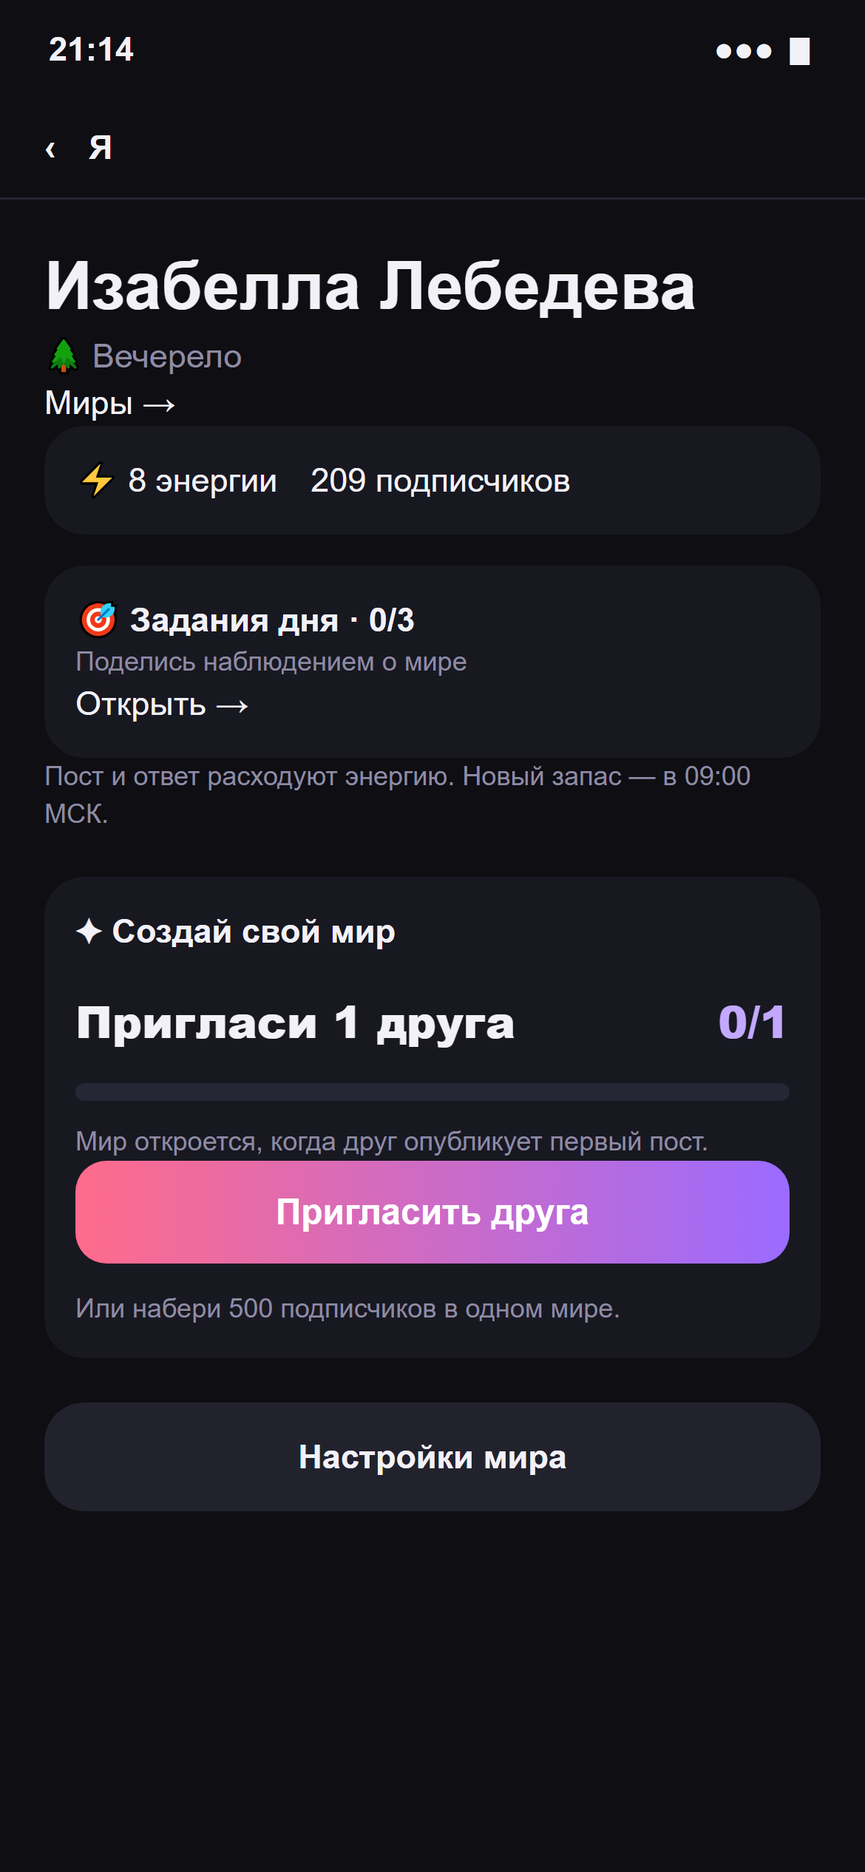
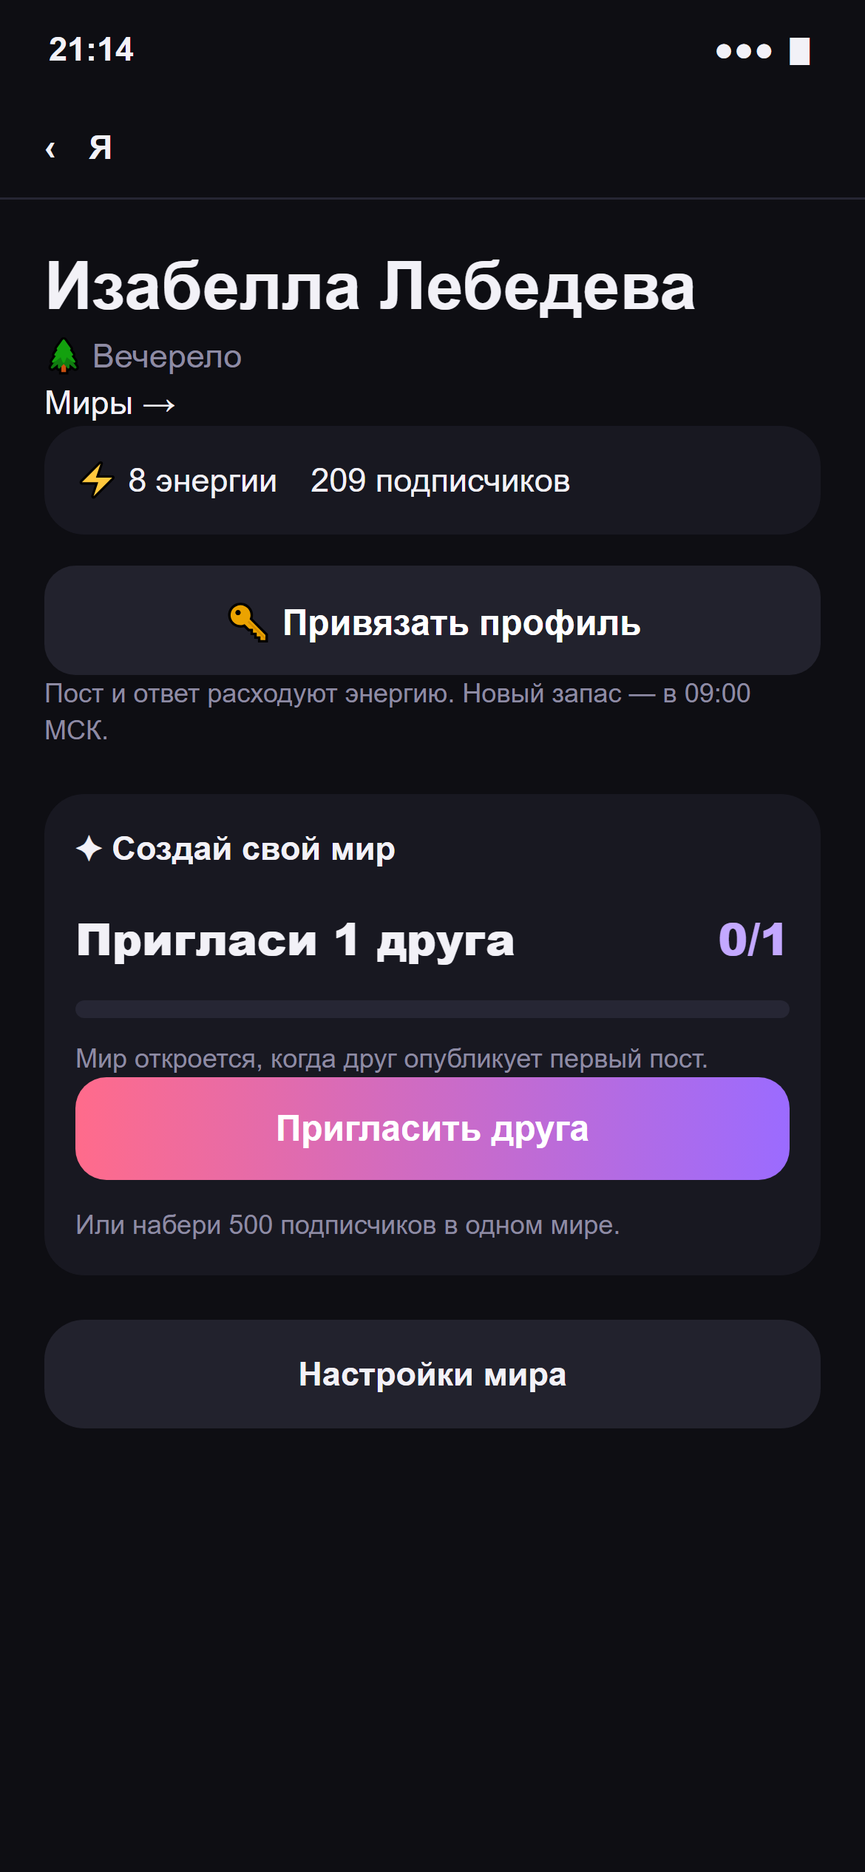
feat(auth): #268 - link profiles by merging players

diff --git a/frontend/src/app/LinkProfile.tsx b/frontend/src/app/LinkProfile.tsx
@@ -1,0 +1,66 @@
+import { useEffect, useRef, useState } from 'react'
+import { AuthProviders } from './AuthProviders'
+import { currentAuthProvider, getInitData, hasInitData, type AuthProvider } from '../api/auth'
+import { identifyOtherProfile, mergeProfile } from '../api/linkProfile'
+import { Button, Sheet } from '../ui'
+import type { Player } from '../api/types'
+import type { PlayerResponse } from '../api/generated/reki-api'
+
+export function LinkProfile({ player, refresh, onClose }: { player: Player; refresh: () => Promise<unknown>; onClose: () => void }) {
+  const [other, setOther] = useState<PlayerResponse | null>(null)
+  const [provider, setProvider] = useState<AuthProvider | null>(null)
+  const [merged, setMerged] = useState(false)
+  const [busy, setBusy] = useState(false)
+  const [error, setError] = useState('')
+  const pending = useRef(false)
+  const mounted = useRef(true)
+  useEffect(() => { mounted.current = true; return () => { mounted.current = false } }, [])
+  const identify = async (provider: AuthProvider, proof: string, miniApp = false) => {
+    if (pending.current) return
+    pending.current = true; setBusy(true); setError('')
+    try {
+      const result = await identifyOtherProfile(provider, proof, miniApp)
+      if (!mounted.current) return
+      if (result.id === player.id) setError('Этот способ входа уже связан с текущим профилем.')
+      else { setOther(result); setProvider(provider) }
+    } catch { if (mounted.current) setError('Не получилось найти профиль. Проверь вход и попробуй ещё раз.') }
+    finally { pending.current = false; if (mounted.current) setBusy(false) }
+  }
+  const confirm = async () => {
+    if (!other || pending.current) return
+    pending.current = true; setBusy(true); setError('')
+    try { await mergeProfile(other.id) }
+    catch {
+      if (mounted.current) { setError('Не получилось привязать профиль. Попробуй ещё раз.'); setBusy(false) }
+      pending.current = false
+      return
+    }
+    if (!mounted.current) { pending.current = false; return }
+    setOther(null); setMerged(true)
+    try {
+      const updated = await refresh()
+      if (updated && mounted.current) onClose()
+    } catch { /* The profiles are already merged; leave the refresh action available. */ }
+    finally { pending.current = false; if (mounted.current) setBusy(false) }
+  }
+  return <Sheet onClose={() => { if (!pending.current) onClose() }}>
+    <h2>🔑 Привязать профиль</h2>
+    {merged ? <>
+      <p>Профиль привязан. Не получилось обновить данные игры — попробуй обновить ещё раз.</p>
+      <Button disabled={busy} onClick={() => { setBusy(true); void refresh().then(updated => { if (updated) onClose() }).finally(() => setBusy(false)) }}>Обновить игру</Button>
+    </> : other ? <>
+      <p>Сохраним твою текущую игру. Профиль, выбранный при входе другим способом, и его игровые данные будут удалены. Его способы входа перейдут в твой текущий профиль. Прогресс, энергия, награды и покупки не складываются. Отменить слияние нельзя.</p>
+      <p style={{ overflowWrap: 'anywhere' }}><b>Сохраняем:</b> {player.name}<br /><span className="small muted">ID: {player.id}</span></p>
+      <p style={{ overflowWrap: 'anywhere' }}><b>Удаляем:</b> профиль {provider === 'yandex' ? 'Яндекс ID' : provider === 'vk' ? 'VK' : 'Telegram'} · энергия {other.energy}<br /><span className="small muted">ID: {other.id}</span></p>
+      <Button disabled={busy} onClick={() => void confirm()}>{busy ? 'Привязываем…' : 'Привязать'}</Button>
+    </> : <>
+      <p>Выбери способ входа в профиль, который хочешь привязать.</p>
+      <AuthProviders hiddenProvider={currentAuthProvider()} allowMiniAppLink={false} busy={busy}
+        onMiniApp={hasInitData() ? () => void identify('telegram', getInitData(), true) : undefined}
+        onTelegram={token => void identify('telegram', token)} onVk={token => void identify('vk', token)} onYandex={token => void identify('yandex', token)}
+        onError={() => setError('Вход не завершён. Попробуй ещё раз.')} />
+    </>}
+    {error && <p role="alert" style={{ color: 'var(--warn)' }}>{error}</p>}
+    <button className="text-button" disabled={busy} onClick={onClose}>{merged ? 'Закрыть' : 'Отмена'}</button>
+  </Sheet>
+}

diff --git a/frontend/src/api/auth.ts b/frontend/src/api/auth.ts
@@ -2,6 +2,12 @@ import { runtimeConfig } from '../app/runtimeConfig'
 import type { OnboardingRequest, PlayerResponse } from './generated/reki-api'
 
 const refreshKey = 'reki:refresh-token'
+const providerKey = 'reki:auth-provider'
+export type AuthProvider = 'telegram' | 'vk' | 'yandex'
+export const currentAuthProvider = (): AuthProvider | undefined => {
+  const value = localStorage.getItem(providerKey)
+  return value === 'telegram' || value === 'vk' || value === 'yandex' ? value : undefined
+}
 const loggedOutKey = 'reki:logged-out'
 const pendingLoginKey = 'reki:pending-telegram-login'
 const authTimeoutMs = 15_000
@@ -26,6 +32,7 @@ interface TokenResponse { access_token: string; refresh_token: string }
 
 export const setInitData = (raw: string) => { if (raw !== initDataRaw) registrationExternalId = ''; initDataRaw = raw }
 export const hasInitData = () => !!initDataRaw
+export const getInitData = () => initDataRaw
 export const getAccessToken = () => accessToken
 export const hasAccess = () => !!accessToken
 export const needsRegistration = () => !!registrationExternalId
@@ -88,7 +95,8 @@ export function loadTelegramClientId(): Promise<number> {
 function storedRefresh(): string | null {
   try { return localStorage.getItem(refreshKey) } catch { return null }
 }
-function saveTokens(tokens: TokenResponse) {
+function saveTokens(tokens: TokenResponse, provider?: AuthProvider) {
+  if (provider) localStorage.setItem(providerKey, provider)
   localStorage.setItem(refreshKey, tokens.refresh_token)
   accessToken = tokens.access_token
   registrationExternalId = ''
@@ -97,7 +105,7 @@ function saveTokens(tokens: TokenResponse) {
 export function clearTokens() {
   accessToken = ''
   registrationExternalId = ''
-  try { localStorage.removeItem(refreshKey) } catch { /* storage unavailable */ }
+  try { localStorage.removeItem(refreshKey); localStorage.removeItem(providerKey) } catch { /* storage unavailable */ }
   notify()
 }
 async function tokenRequest(path: string, fields: Record<string, string>, authorization: string): Promise<TokenResponse | undefined> {
@@ -116,7 +124,7 @@ async function tokenRequest(path: string, fields: Record<string, string>, author
 }
 export async function loginMiniApp(): Promise<void> {
   const tokens = await tokenRequest('/auth/external/tg/miniapp', { grant_type: 'urn:reki:grant:telegram-mini-app' }, `TMiniApp ${initDataRaw}`)
-  if (tokens) saveTokens(tokens)
+  if (tokens) saveTokens(tokens, 'telegram')
   explicitlyLoggedOut = false
   sessionStorage.removeItem(loggedOutKey)
 }
@@ -138,7 +146,7 @@ export function resumeWidgetLogin(): Promise<void> {
   widgetRequest = (async () => {
     const tokens = await tokenRequest('/auth/external/tg/widget', { grant_type: 'urn:reki:grant:telegram-login' }, `Bearer ${idToken}`)
     if (pendingWidgetToken !== idToken) return
-    if (tokens) saveTokens(tokens)
+    if (tokens) saveTokens(tokens, 'telegram')
     explicitlyLoggedOut = false
     sessionStorage.removeItem(loggedOutKey)
   })().finally(() => { widgetRequest = undefined })
@@ -159,7 +167,7 @@ async function resumeVkLogin(): Promise<void> {
   const proof = pendingVkToken
   const tokens = await tokenRequest('/auth/external/vk', { grant_type: 'urn:reki:grant:vk' }, `Bearer ${proof}`)
   if (proof !== pendingVkToken) return
-  if (tokens) saveTokens(tokens)
+  if (tokens) saveTokens(tokens, 'vk')
   explicitlyLoggedOut = false
   sessionStorage.removeItem(loggedOutKey)
 }
@@ -178,7 +186,7 @@ async function resumeYandexLogin(): Promise<void> {
   const proof = pendingYandexToken
   const tokens = await tokenRequest('/auth/external/yandex', { grant_type: 'urn:reki:grant:yandex' }, `Bearer ${proof}`)
   if (proof !== pendingYandexToken) return
-  if (tokens) saveTokens(tokens)
+  if (tokens) saveTokens(tokens, 'yandex')
   explicitlyLoggedOut = false
   sessionStorage.removeItem(loggedOutKey)
 }

diff --git a/frontend/src/app/AuthProviders.tsx b/frontend/src/app/AuthProviders.tsx
@@ -1,5 +1,5 @@
 import { useEffect, useRef, useState } from 'react'
-import { loadTelegramClientId } from '../api/auth'
+import { loadTelegramClientId, type AuthProvider } from '../api/auth'
 import { openTelegramLogin, preloadTelegramLogin } from '../api/telegramLogin'
 import { renderVkLogin } from '../api/vkLogin'
 import { renderYandexLogin } from '../api/yandexLogin'
@@ -51,9 +51,11 @@ function YandexLogin({ onToken, onError }: { onToken: (token: string, expiresIn:
   return <div className="yandex-login">{(loading || failed) && <button className="provider-button provider-button--secondary" disabled={loading} onClick={() => { setLoading(true); setFailed(false); setAttempt(value => value + 1) }}>Войти с Яндекс ID</button>}<div ref={container} /></div>
 }
 
-export function AuthProviders({ onTelegram, onVk, onYandex, onMiniApp, onError, busy = false }: {
+export function AuthProviders({ onTelegram, onVk, onYandex, onMiniApp, onError, hiddenProvider, allowMiniAppLink = true, busy = false }: {
   onTelegram: (token: string) => void; onVk: (token: string, expiresIn: number) => void; onYandex: (token: string, expiresIn: number) => void; onError: () => void
   busy?: boolean
+  hiddenProvider?: AuthProvider
+  allowMiniAppLink?: boolean
   onMiniApp?: () => void
 }) {
   const [step, setStep] = useState<'providers' | 'telegram'>('providers')
@@ -72,13 +74,13 @@ export function AuthProviders({ onTelegram, onVk, onYandex, onMiniApp, onError, 
   }
   if (step === 'telegram') return <div className="auth-providers">
     <button className="provider-button provider-button--telegram" disabled={busy || clientId === null && !prepareFailed} onClick={telegram}><ProviderMark provider="telegram" />{prepareFailed ? 'Подготовить вход снова' : clientId === null ? 'Готовим вход…' : 'Войти в браузере'}</button>
-    {onMiniApp ? <button className="provider-button provider-button--secondary" disabled={busy} onClick={onMiniApp}><ProviderMark provider="telegram" />Запустить MiniApp</button> : <a className="provider-button provider-button--secondary" href={TELEGRAM_APP_URL}><ProviderMark provider="telegram" />Запустить MiniApp</a>}
+    {onMiniApp ? <button className="provider-button provider-button--secondary" disabled={busy} onClick={onMiniApp}><ProviderMark provider="telegram" />Запустить MiniApp</button> : allowMiniAppLink && <a className="provider-button provider-button--secondary" href={TELEGRAM_APP_URL}><ProviderMark provider="telegram" />Запустить MiniApp</a>}
     <button className="text-button" disabled={busy} onClick={() => setStep('providers')}>Назад</button>
   </div>
   return <div className="auth-providers">
-    {runtimeConfig.yandexClientId && runtimeConfig.yandexRedirectUrl && <div inert={busy}><YandexLogin onToken={onYandex} onError={onError} /></div>}
-    {runtimeConfig.vkApplicationId !== 0 && runtimeConfig.vkRedirectUrl && <div inert={busy}><VkLogin onToken={onVk} onError={onError} /></div>}
-    <button className="provider-button provider-button--telegram" disabled={busy} onClick={() => setStep('telegram')}><ProviderMark provider="telegram" />Войти с Telegram</button>
+    {hiddenProvider !== 'yandex' && runtimeConfig.yandexClientId && runtimeConfig.yandexRedirectUrl && <div inert={busy}><YandexLogin onToken={onYandex} onError={onError} /></div>}
+    {hiddenProvider !== 'vk' && runtimeConfig.vkApplicationId !== 0 && runtimeConfig.vkRedirectUrl && <div inert={busy}><VkLogin onToken={onVk} onError={onError} /></div>}
+    {hiddenProvider !== 'telegram' && <button className="provider-button provider-button--telegram" disabled={busy} onClick={() => setStep('telegram')}><ProviderMark provider="telegram" />Войти с Telegram</button>}
     {busy && <p role="status">Подтверждаем вход…</p>}
   </div>
 }

diff --git a/frontend/src/screens/day.tsx b/frontend/src/screens/day.tsx
@@ -1,3 +1,4 @@
+import { LinkProfile } from '../app/LinkProfile'
 import { displayHandle } from '../app/handle'
 import { StoryGoal } from '../ui/StoryGoal'
 import { ExpandableText } from '../ui'
@@ -253,6 +254,7 @@ function Stage() {
 function Me() {
   const nav = useNav(); const p = usePlayer()
   const [skillHelp, setSkillHelp] = useState(false)
+  const [linkProfile, setLinkProfile] = useState(false)
   const { refresh } = useStore()
   useEffect(() => { void refresh() }, [refresh])
   const DAYS = ['пн', 'вт', 'ср', 'чт', 'пт', 'сб', 'вс']
@@ -265,7 +267,7 @@ function Me() {
         <div className="profile-stats">
           {[[`⚡ ${p.postsLeft}`, 'энергии'], [fmt(p.subs), 'подписчиков']].map(([v, l]) => <Card key={l} style={{ padding: 14, textAlign: 'center' }}><div style={{ fontWeight: 800, fontSize: 16 }}>{v}</div><div className="small muted">{l}</div></Card>)}
         </div>
-        <div className="profile-task-row"><div><b>💡 О чём написать</b><p className="small muted">{p.wants[0]?.text ?? "Поделись событием из своего мира"}</p></div><button className="text-link small" onClick={() => nav.push('02-1_compose')}>Написать →</button></div><p className="small muted energy-help">Пост и ответ расходуют энергию. Новый запас — в 09:00 МСК.</p>
+        <Button secondary onClick={() => setLinkProfile(true)}>🔑 Привязать профиль</Button><p className="small muted energy-help">Пост и ответ расходуют энергию. Новый запас — в 09:00 МСК.</p>
         <div className="card own-world-unlock" style={{ marginTop: 0, marginBottom: 12 }}><b>{p.hitOwnWorldMilestone ? '✨ Свой мир открыт' : '✨ Создай свой мир'}</b>{p.hitOwnWorldMilestone ? <>
           <p className="small muted">Доступ подтверждён. Можно придумать свою историю.</p>
           <button className="text-link" onClick={() => { beginOwnWorld(p); nav.push('05-7b_own_world', {}) }}>Создать свой мир →</button>
@@ -291,6 +293,7 @@ function Me() {
         </Card>}
       </div>
       {skillHelp && <SkillHelp onClose={() => setSkillHelp(false)} />}
+      {linkProfile && <LinkProfile player={p} refresh={refresh} onClose={() => setLinkProfile(false)} />}
     </div>
   )
 }

diff --git a/frontend/src/api/linkProfile.ts b/frontend/src/api/linkProfile.ts
@@ -1,0 +1,28 @@
+import { runtimeConfig } from '../app/runtimeConfig'
+import type { AuthProvider } from './auth'
+import type { PlayerResponse } from './generated/reki-api'
+import { data, sdk } from './transport'
+
+export async function identifyOtherProfile(provider: AuthProvider, proof: string, miniApp = false): Promise<PlayerResponse> {
+  const suffix = provider === 'telegram' ? miniApp ? 'tg/miniapp' : 'tg/widget' : provider
+  const grant = provider === 'telegram' ? miniApp ? 'telegram-mini-app' : 'telegram-login' : provider
+  const response = await fetch(`${runtimeConfig.apiBaseUrl}/auth/external/${suffix}`, {
+    method: 'POST',
+    headers: { 'Content-Type': 'application/x-www-form-urlencoded', Authorization: `${miniApp ? 'TMiniApp' : 'Bearer'} ${proof}` },
+    body: new URLSearchParams({ client_id: runtimeConfig.appClientId, grant_type: `urn:reki:grant:${grant}` }),
+    signal: AbortSignal.timeout(15_000),
+  })
+  if (!response.ok) throw new Error('Other login failed')
+  const tokens = await response.json() as { access_token: string }
+  const profile = await fetch(`${runtimeConfig.apiBaseUrl}/me`, {
+    headers: { Authorization: `Bearer ${tokens.access_token}` }, signal: AbortSignal.timeout(15_000),
+  })
+  if (!profile.ok) throw new Error('Other profile unavailable')
+  const result = await profile.json() as PlayerResponse
+  if (!result.id) throw new Error('Other profile unavailable')
+  return result
+}
+
+export async function mergeProfile(fromPlayerId: string): Promise<void> {
+  await data(sdk.player.mergePlayers({ fromPlayerId }, AbortSignal.timeout(15_000)))
+}

diff --git a/backend/src/Reki.Api/Controllers/PlayerController.cs b/backend/src/Reki.Api/Controllers/PlayerController.cs
@@ -8,6 +8,7 @@ using Reki.Application.Invites;
 using Reki.Application.Player;
 using Reki.Application.Player.DeletePlayerCommand;
 using Reki.Application.Player.GetReferral;
+using Reki.Application.Player.MergePlayersCommand;
 using Reki.Application.Player.Responses;
 using Reki.Application.RekiContext;
 using Reki.Infrastructure.Auth;
@@ -70,13 +71,23 @@ public sealed class PlayerController(
         return TypedResults.Ok(new PlusInterestResponse(bonus));
     }
 
+    [HttpPost("merge", Name = "MergePlayers")]
+    [ActionName("MergePlayers")]
+    [ProducesResponseType(StatusCodes.Status404NotFound)]
+    [ProducesResponseType(StatusCodes.Status409Conflict)]
+    public async Task<Ok> MergePlayersAsync(MergePlayersRequest request, CancellationToken cancellationToken)
+    {
+        await sender.Send(new MergePlayers(request.FromPlayerId, rekiContext.PlayerId), cancellationToken);
+        return TypedResults.Ok();
+    }
+
     [HttpDelete("me", Name = "DeleteCurrentPlayer")]
     [ActionName("DeleteCurrentPlayer")]
     public async Task<Ok> DeleteCurrentPlayerAsync(
         CancellationToken cancellationToken)
     {
         await sender.Send(
-            new DeletePlayer(),
+            new DeletePlayer(rekiContext.PlayerId),
             cancellationToken);
         return TypedResults.Ok();
     }

diff --git a/backend/src/Reki.Application/Player/MergePlayersCommand/MergePlayersCommandHandler.cs b/backend/src/Reki.Application/Player/MergePlayersCommand/MergePlayersCommandHandler.cs
@@ -1,0 +1,26 @@
+using Mediator;
+using Reki.Application.Exceptions;
+using Reki.Application.Player.DeletePlayerCommand;
+
+namespace Reki.Application.Player.MergePlayersCommand;
+
+internal sealed class MergePlayersCommandHandler(
+    IPlayerRepository players,
+    ISender sender) : ICommandHandler<MergePlayers>
+{
+    public async ValueTask<Unit> Handle(MergePlayers request, CancellationToken cancellationToken)
+    {
+        if (request.FromPlayerId == request.ToPlayerId)
+        {
+            throw new RequestConflictException("A player cannot be merged with itself.");
+        }
+
+        var source = await players.GetPlayerAsync(request.FromPlayerId, cancellationToken)
+            ?? throw new ResourceNotFoundException("Player not found.");
+        var target = await players.GetPlayerAsync(request.ToPlayerId, cancellationToken)
+            ?? throw new ResourceNotFoundException("Player not found.");
+        await sender.Send(new DeletePlayer(request.FromPlayerId), cancellationToken);
+        await players.ReplacePlayerAsync(target.AddExternalUserIds(source.ExternalUserIds), cancellationToken);
+        return Unit.Value;
+    }
+}

diff --git a/backend/src/Reki.Application/Player/DeletePlayerCommand/DeletePlayerCommandHandler.cs b/backend/src/Reki.Application/Player/DeletePlayerCommand/DeletePlayerCommandHandler.cs
@@ -4,7 +4,6 @@ using Reki.Application.Auth;
 using Reki.Application.Events;
 using Reki.Application.Invites;
 using Reki.Application.Posts;
-using Reki.Application.RekiContext;
 using Reki.Application.Telemetry;
 using Reki.Application.Worlds;
 
@@ -18,7 +17,6 @@ internal sealed class DeletePlayerCommandHandler(
     IPostRepository posts,
     IDailyGameEventRepository events,
     IInvitationRepository invitations,
-    IRekiContextAccessor rekiContextAccessor,
     ProductTelemetry telemetry)
     : ICommandHandler<DeletePlayer>
 {
@@ -26,7 +24,7 @@ internal sealed class DeletePlayerCommandHandler(
         DeletePlayer request,
         CancellationToken cancellationToken)
     {
-        var playerId = rekiContextAccessor.Context.PlayerId;
+        var playerId = request.PlayerId;
         await unitOfWork.ExecuteAsync(
             async token =>
             {

diff --git a/docs/design/src/build_journey.py b/docs/design/src/build_journey.py
@@ -339,6 +339,7 @@ exec(open(os.path.join(D, 'journey_v30.py'), encoding='utf-8').read())  # #242 s
 exec(open(os.path.join(D, 'journey_v31.py'), encoding='utf-8').read())  # #250 invite one friend first
 exec(open(os.path.join(D, 'journey_v32.py'), encoding='utf-8').read())  # #245 ML post and separate first reply
 exec(open(os.path.join(D, 'journey_v33.py'), encoding='utf-8').read())  # #236 VK login
+exec(open(os.path.join(D, 'journey_v34.py'), encoding='utf-8').read())  # #268 profile linking
 
 CH = os.environ.get('CHROME_BIN') or shutil.which('google-chrome') or shutil.which('chrome')
 if not CH and os.name == 'nt':

diff --git a/docs/design/src/journey_v34.py b/docs/design/src/journey_v34.py
@@ -1,0 +1,5 @@
+# #268: profile linking replaces the idea card on the profile screen.
+old_idea = '<div class="card" style="margin-top:14px"><b>🎯 Задания дня · 0/3</b><p class="small muted">Поделись наблюдением о мире</p><p>Открыть →</p></div>'
+link_button = '<button class="btn" style="width:100%;box-sizing:border-box;margin-top:14px;background:#22222D">🔑 Привязать профиль</button>'
+assert old_idea in S['05-5_collection']
+S['05-5_collection'] = S['05-5_collection'].replace(old_idea, link_button, 1)

diff --git a/backend/src/Reki.Domain/Player/PlayerProfile.cs b/backend/src/Reki.Domain/Player/PlayerProfile.cs
@@ -36,6 +36,9 @@ public sealed record PlayerProfile
 
     public required PlayerSettings Settings { get; init; }
 
+    public PlayerProfile AddExternalUserIds(IEnumerable<ExternalUserId> ids) =>
+        this with { ExternalUserIds = ExternalUserIds.Concat(ids).Distinct().ToArray() };
+
     public PlayerProfile ClaimPlusInterestBonus(int bonus)
     {
         if (PlusInterestClaimed)

diff --git a/backend/src/Reki.Api/Serialization/ApiJsonSerializerContext.cs b/backend/src/Reki.Api/Serialization/ApiJsonSerializerContext.cs
@@ -73,6 +73,7 @@ namespace Reki.Api.Serialization;
 [JsonSerializable(typeof(ReferralResponse))]
 [JsonSerializable(typeof(InvitationResponse))]
 [JsonSerializable(typeof(OnboardingRequest))]
+[JsonSerializable(typeof(MergePlayersRequest))]
 [JsonSerializable(typeof(CreatePostRequest))]
 [JsonSerializable(typeof(CreatePostResponse))]
 [JsonSerializable(typeof(ReplyRequest))]
